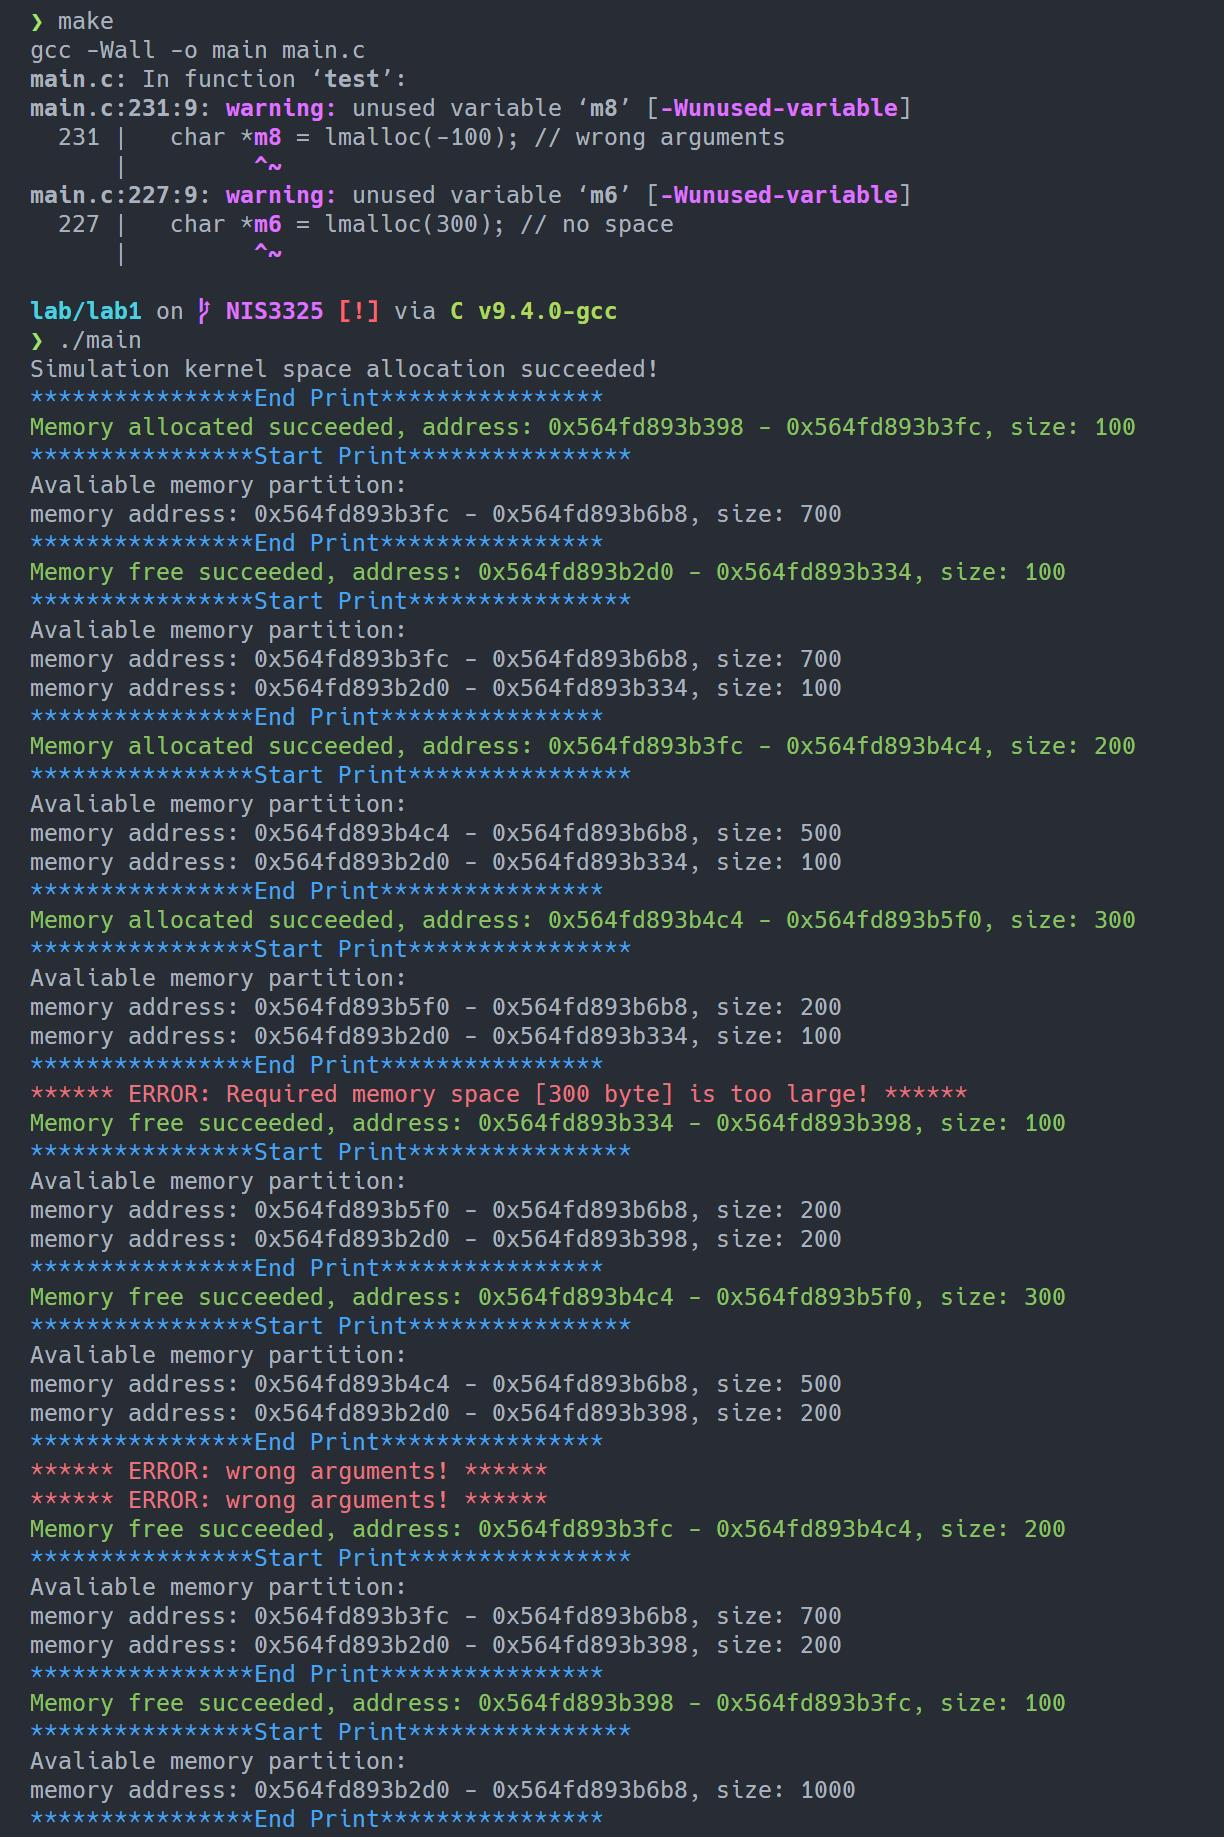
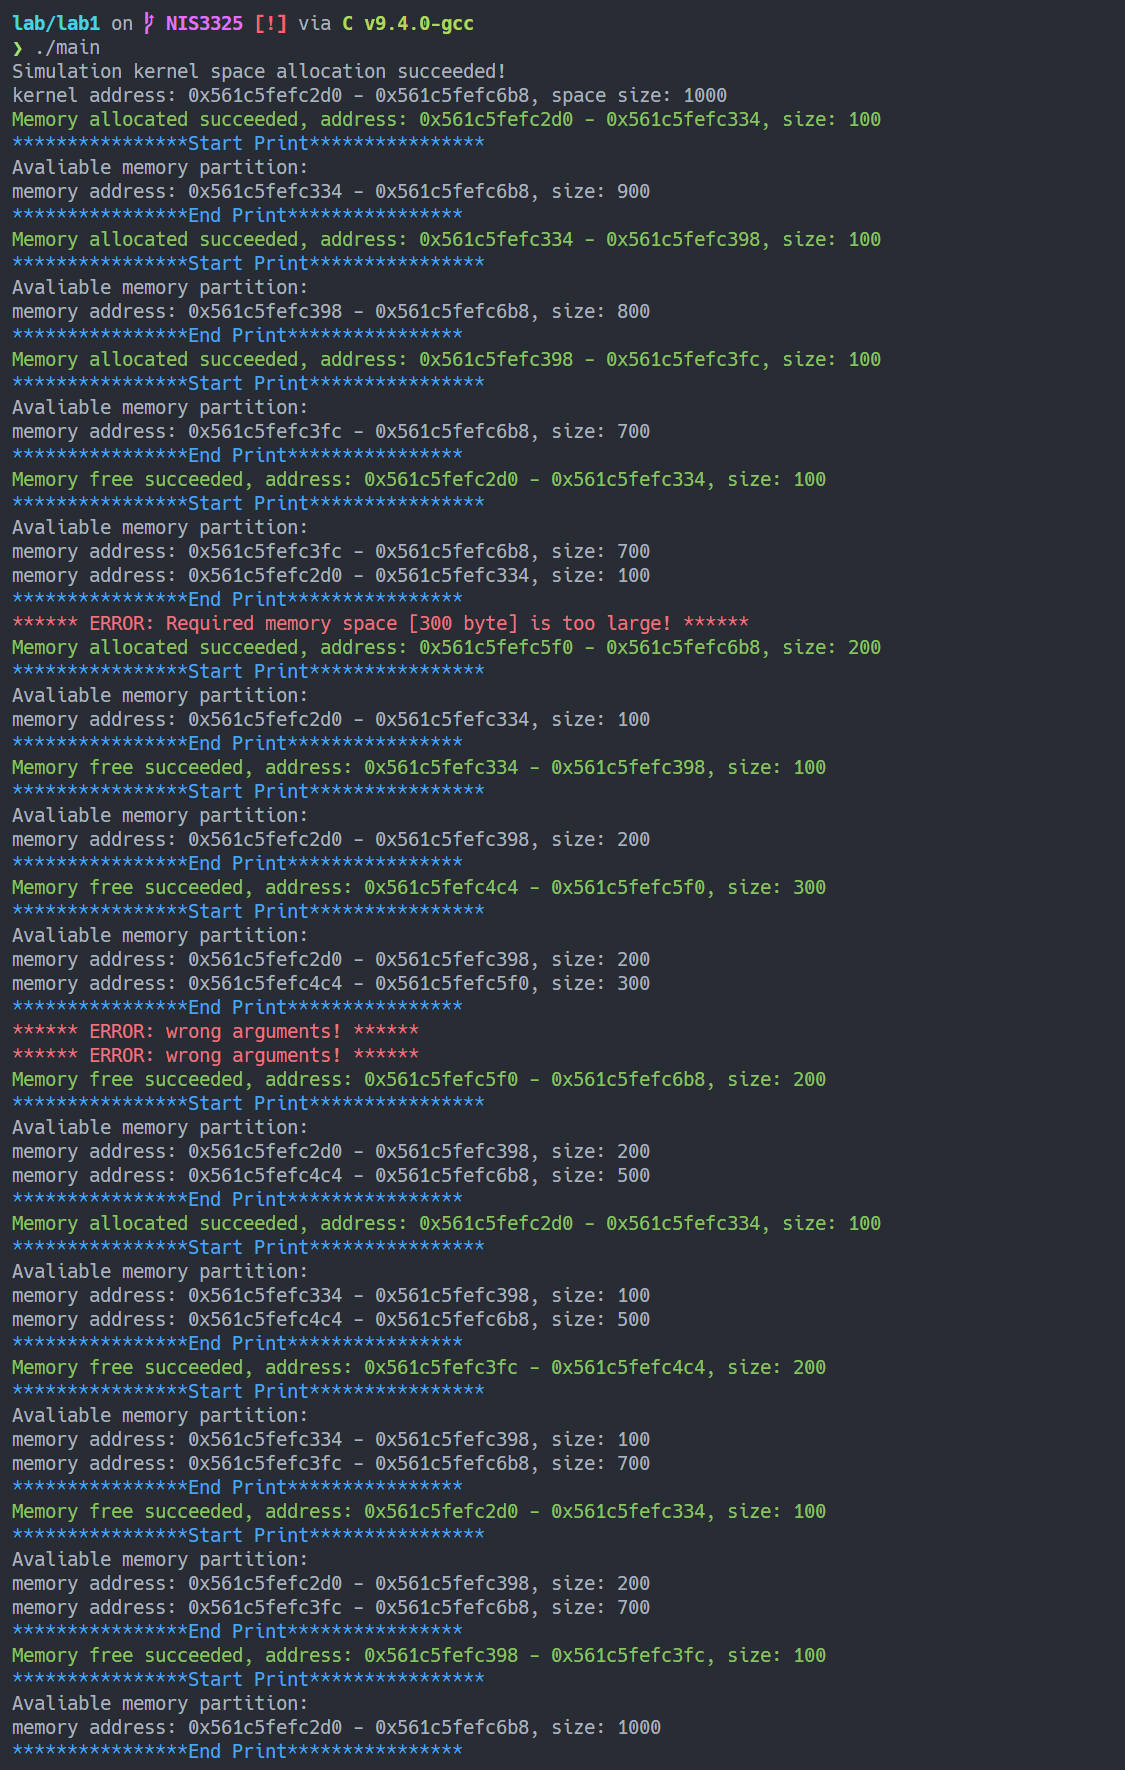
change test

diff --git a/lab1/main.c b/lab1/main.c
@@ -48,7 +48,8 @@ void init_coremap(unsigned size) {
 char *lmalloc(unsigned size) {
   // wrong arguments
   if (size <= 0 || size >= CORE_SIZE) {
-    printf(ANSI_COLOR_RED "****** ERROR: wrong arguments! ******" ANSI_COLOR_RESET "\n");
+    printf(ANSI_COLOR_RED
+           "****** ERROR: wrong arguments! ******" ANSI_COLOR_RESET "\n");
     return NULL;
   }
   // all memory has been allocated
@@ -104,7 +105,8 @@ char *lmalloc(unsigned size) {
 void lfree(unsigned size, char *addr) {
   // wrong arguments
   if (size <= 0 || size >= CORE_SIZE || addr == NULL) {
-    printf(ANSI_COLOR_RED "****** ERROR: wrong arguments! ******" ANSI_COLOR_RESET "\n");
+    printf(ANSI_COLOR_RED
+           "****** ERROR: wrong arguments! ******" ANSI_COLOR_RESET "\n");
     return;
   }
 
@@ -115,11 +117,14 @@ void lfree(unsigned size, char *addr) {
     coremap->m_size = size;
     coremap->prior = coremap;
     coremap->next = coremap;
+    if (VERBOSE) {
+      print_free_mem();
+    }
     return;
   }
 
   // find the right address, let addr between p->m_addr & p->next->m_addr
-  struct map *p = coremap; // TODO after free, need to change coremap position
+  struct map *p = coremap;
   while (!((p->m_addr < addr &&
             p->next->m_addr > addr) ||        // e.g. .. 100 .. [250] .. 300 ..
            ((p->m_addr < addr ||              // e.g. [50] .. 100 ..
@@ -134,7 +139,7 @@ void lfree(unsigned size, char *addr) {
       struct map *q = p->next;
       p->next = q->next;
       q->next->prior = p;
-      if (coremap == q) {
+      if (coremap == q) { // after free, need to change coremap pointer val
         coremap = p;
       }
       free(q);
@@ -226,19 +231,23 @@ void test() {
   char *m4 = lmalloc(200);
   char *m5 = lmalloc(300);
   char *m6 = lmalloc(300); // no space
+  char *m7 = lmalloc(200);
   lfree(100, m2);
   lfree(300, m5);
   lfree(200, NULL);         // wrong arguments
   char *m8 = lmalloc(-100); // wrong arguments
+  lfree(200, m7);
+  char *m9 = lmalloc(100); // allocation after free
   lfree(200, m4);
+  lfree(100, m9);
   lfree(100, m3);
 }
 
 int main() {
   init_coremap(CORE_SIZE);
 
-  // input();
-  test();
+  input();
+  // test();
 
   free(coremap);
 
